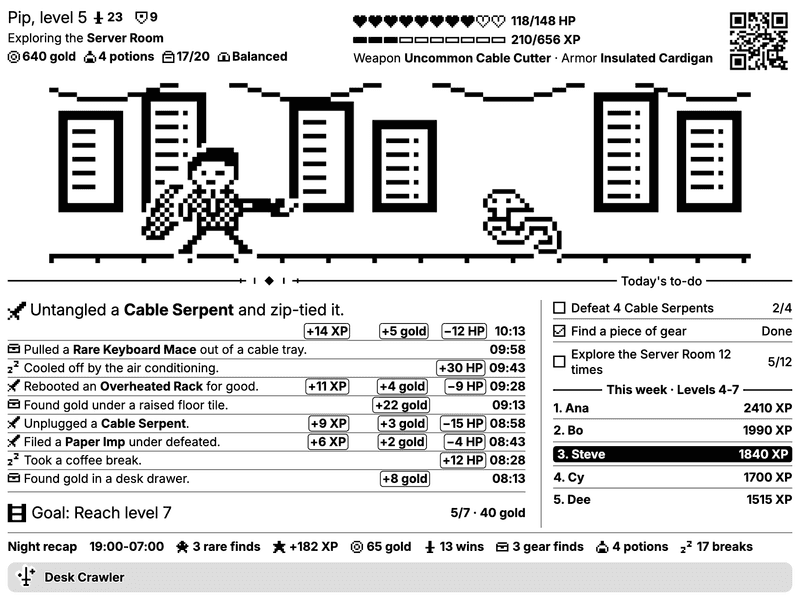
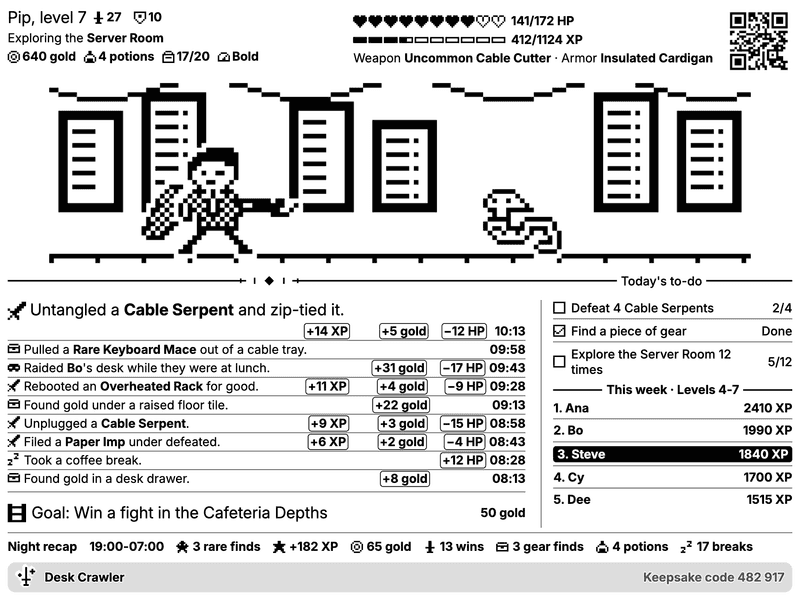
Show a desk raid and the preview-only keepsake code on the public device sample: the marketing scenario is now a level-7 hero on Bold who raided Bo, with the goal after the first raid (D137)

diff --git a/packages/desk-crawler/src/templates/previewScenarios.ts b/packages/desk-crawler/src/templates/previewScenarios.ts
@@ -17,7 +17,7 @@ export const PREVIEW_PERIOD_END = Date.UTC(2026, 9, 4, 5, 0)
 /** Preview-only sample of the verified device-envelope field; never an actual redeemable code. */
 export const PREVIEW_KEEPSAKE_CODE = '482 917'
 /** Screens that never show a keepsake code. */
-export const KEEPSAKE_FREE_SCENARIOS: ReadonlySet<string> = new Set(['unlinked', 'unlinkedPaused', 'sample'])
+export const KEEPSAKE_FREE_SCENARIOS: ReadonlySet<string> = new Set(['unlinked', 'unlinkedPaused'])
 /** Scenarios that render without the owner's UTC offset, to prove the fallback. */
 export const NO_OFFSET_SCENARIOS: ReadonlySet<string> = new Set(['noMetadata'])
 
@@ -246,7 +246,16 @@ export function previewScenarios(artBaseUrl: string | null): PreviewScenarios {
   })
 
   const marketing: Record<string, PayloadInput> = {
-    sample: { ...base, ownerAlias: 'Steve', hero: hero({ name: 'Pip' }), ranking: { ...base.ranking!, top: base.ranking!.top.map(row => row.rank === 3 ? { ...row, name: 'Steve', hero_name: 'Pip' } : row) } },
+    // The public pages' sample (D137): a level-7 hero on Bold, so its log can show a desk raid on Bo from the board, and
+    // the goal after the first raid. With --keepsakes it shows the preview-only keepsake code too.
+    sample: {
+      ...base,
+      ownerAlias: 'Steve',
+      hero: hero({ name: 'Pip', level: 7, xp: 412, hp: 141, stance: 'bold' }),
+      logs: base.logs.map((log, i) => i === 2 ? { at: log.at, kind: 'raid', summary: "Raided [[Bo]]'s desk while they were at lunch.", deltas: { xpEarned: 0, gold: 31, hp: -17 } } : log),
+      goal: { title: 'Win a fight in the Cafeteria Depths', value: 0, target: 1, gold: 50 },
+      ranking: { ...base.ranking!, top: base.ranking!.top.map(row => row.rank === 3 ? { ...row, name: 'Steve', hero_name: 'Pip' } : row) },
+    },
   }
   return { groups: { states, recap: recapStates, potionFinds: potionStates, noEffect: noEffectStates, marketing }, overnightEntries, base }
 }

diff --git a/apps/web/src/lib/deskCrawlerPitch.tsx b/apps/web/src/lib/deskCrawlerPitch.tsx
@@ -24,7 +24,7 @@ export function DeviceSample({ caption, priority = false }: { caption: string; p
           src="/games/desk-crawler/screen-sample.png"
           srcSet="/games/desk-crawler/screen-sample-800.png 800w, /games/desk-crawler/screen-sample.png 1200w"
           sizes="(min-width: 1024px) 600px, 100vw"
-          alt="Example Desk Crawler screen on a TRMNL X: Pip explores the Server Room, with health, XP, gear, adventure stories, today's to-do list, the current goal, the night recap and the weekly rankings."
+          alt="Example Desk Crawler screen on a TRMNL X: Pip, level 7, explores the Server Room on the Bold stance. Its adventure stories include a desk raid on another player, beside today's to-do list, the current goal, the weekly rankings, the night recap and this week's keepsake code."
           width={1200}
           height={900}
           fetchPriority={priority ? 'high' : undefined}

diff --git a/docs/companion.md b/docs/companion.md
@@ -32,7 +32,7 @@ One page per game, not two (D137, Barry, 2026-10-13): while Desk Crawler is the 
 
 Home and game page (D137): the home page leads with the launch list beside the real device sample, then How it plays, the five floors (painted scenes and monsters), a grid of the game's systems, a FAQ (with FAQPage structured data) and a second launch-list form. `/games/desk-crawler` goes deeper, with a section per topic linking into the help page. Floor names, monsters, quoted unlock levels and the floor pictures come from `tools/landing/floors.ts` (`apps/web/src/lib/facts.gen.ts`, `public/games/desk-crawler/floors/`); `tests/web/facts.test.ts` fails when they drift from the active catalog, so rerun the tool with each content version that changes floors or unlocks. The analytics consent panel is one low row from 640px so it never covers a page's first form. A signed-in visitor sees Open Desk Crawler in place of the launch-list form (the companion offers the account's launch email). Sections that depend on the games listing (the home page's Slow Cast teaser, the privacy policy's Slow Cast part) render in the browser through `AfterListing`, because asking Convex for the listing during the server render held those pages' first byte for about a second.
 
-Main bundle (D137): route options (loaders, `head`, `validateSearch`) ship in the main chunk every page loads, and so does anything they import or any module-level work in a module they import. Keep heavy code out of their reach: route queries live in small modules (`app/desk-crawler/-queries.ts`), the home FAQ data sits in `lib/deskCrawlerFaq.ts`, the dev preview route validates `scenario` as a plain string, and `lib/sampleScreen.tsx` paints on first render. On 2026-10-13 this took the main chunk from 220 KB to 133 KB and the home page's preloads from about 40 scripts to about 20 (the content catalogs, preview scenarios, scene painter and game screen had been on every page). Clerk's frontend origin gets two preconnects (`__root.tsx`). The device sample (`public/games/desk-crawler/screen-sample.png`, 1200px, and `screen-sample-800.png` for phones) is the marketing preview on the X full layout, re-rendered on 2026-10-13 at template v53 with the to-do list, goal and night recap: `pnpm exec tsx tools/trmnl/preview.ts --marketing --recap --inline-art`, screenshot `.previews/sample--x--markup.html`'s `.screen` at 1872×1404, then resize to 16-colour PNGs (the X's 4-bit greys), which beat WebP at both sizes.
+Main bundle (D137): route options (loaders, `head`, `validateSearch`) ship in the main chunk every page loads, and so does anything they import or any module-level work in a module they import. Keep heavy code out of their reach: route queries live in small modules (`app/desk-crawler/-queries.ts`), the home FAQ data sits in `lib/deskCrawlerFaq.ts`, the dev preview route validates `scenario` as a plain string, and `lib/sampleScreen.tsx` paints on first render. On 2026-10-13 this took the main chunk from 220 KB to 133 KB and the home page's preloads from about 40 scripts to about 20 (the content catalogs, preview scenarios, scene painter and game screen had been on every page). Clerk's frontend origin gets two preconnects (`__root.tsx`). The device sample (`public/games/desk-crawler/screen-sample.png`, 1200px, and `screen-sample-800.png` for phones) is the marketing preview on the X full layout, re-rendered on 2026-10-13 at template v53 with the to-do list, goal, night recap, a desk raid and the preview-only keepsake code (the `sample` scenario is a level-7 hero on Bold): `pnpm exec tsx tools/trmnl/preview.ts --marketing --recap --keepsakes --inline-art`, screenshot `.previews/sample--x--markup.html`'s `.screen` at 1872×1404, then resize to 16-colour PNGs (the X's 4-bit greys), which beat WebP at both sizes.
 
 Clerk's UI on demand (D137): `ClerkProvider` gets `ui={{ ClerkUI: LazyClerkUI }}` (`lib/clerkUi.ts`). Clerk still loads on every page, so sessions, `<Show>` and the server-rendered state are unchanged, but its prebuilt UI (about 220 KB) downloads only when a page first needs it: a Sign in or Create account press (the buttons start the download on hover, focus or touch), an embedded `<SignIn>` (the TRMNL install and manage handoffs, account deletion), or the signed-in avatar. Clerk reaches its UI only through `ensureMounted()`; the stand-in remembers the provider's `updateProps` call that follows every load and ignores closes and unmounts until the real UI exists, and forwards everything else to it. `tests/web/clerk-ui.test.ts` checks the script URL against the installed SDK's own loader, so a Clerk upgrade that moves the UI fails the test rather than the sign-in.
 
